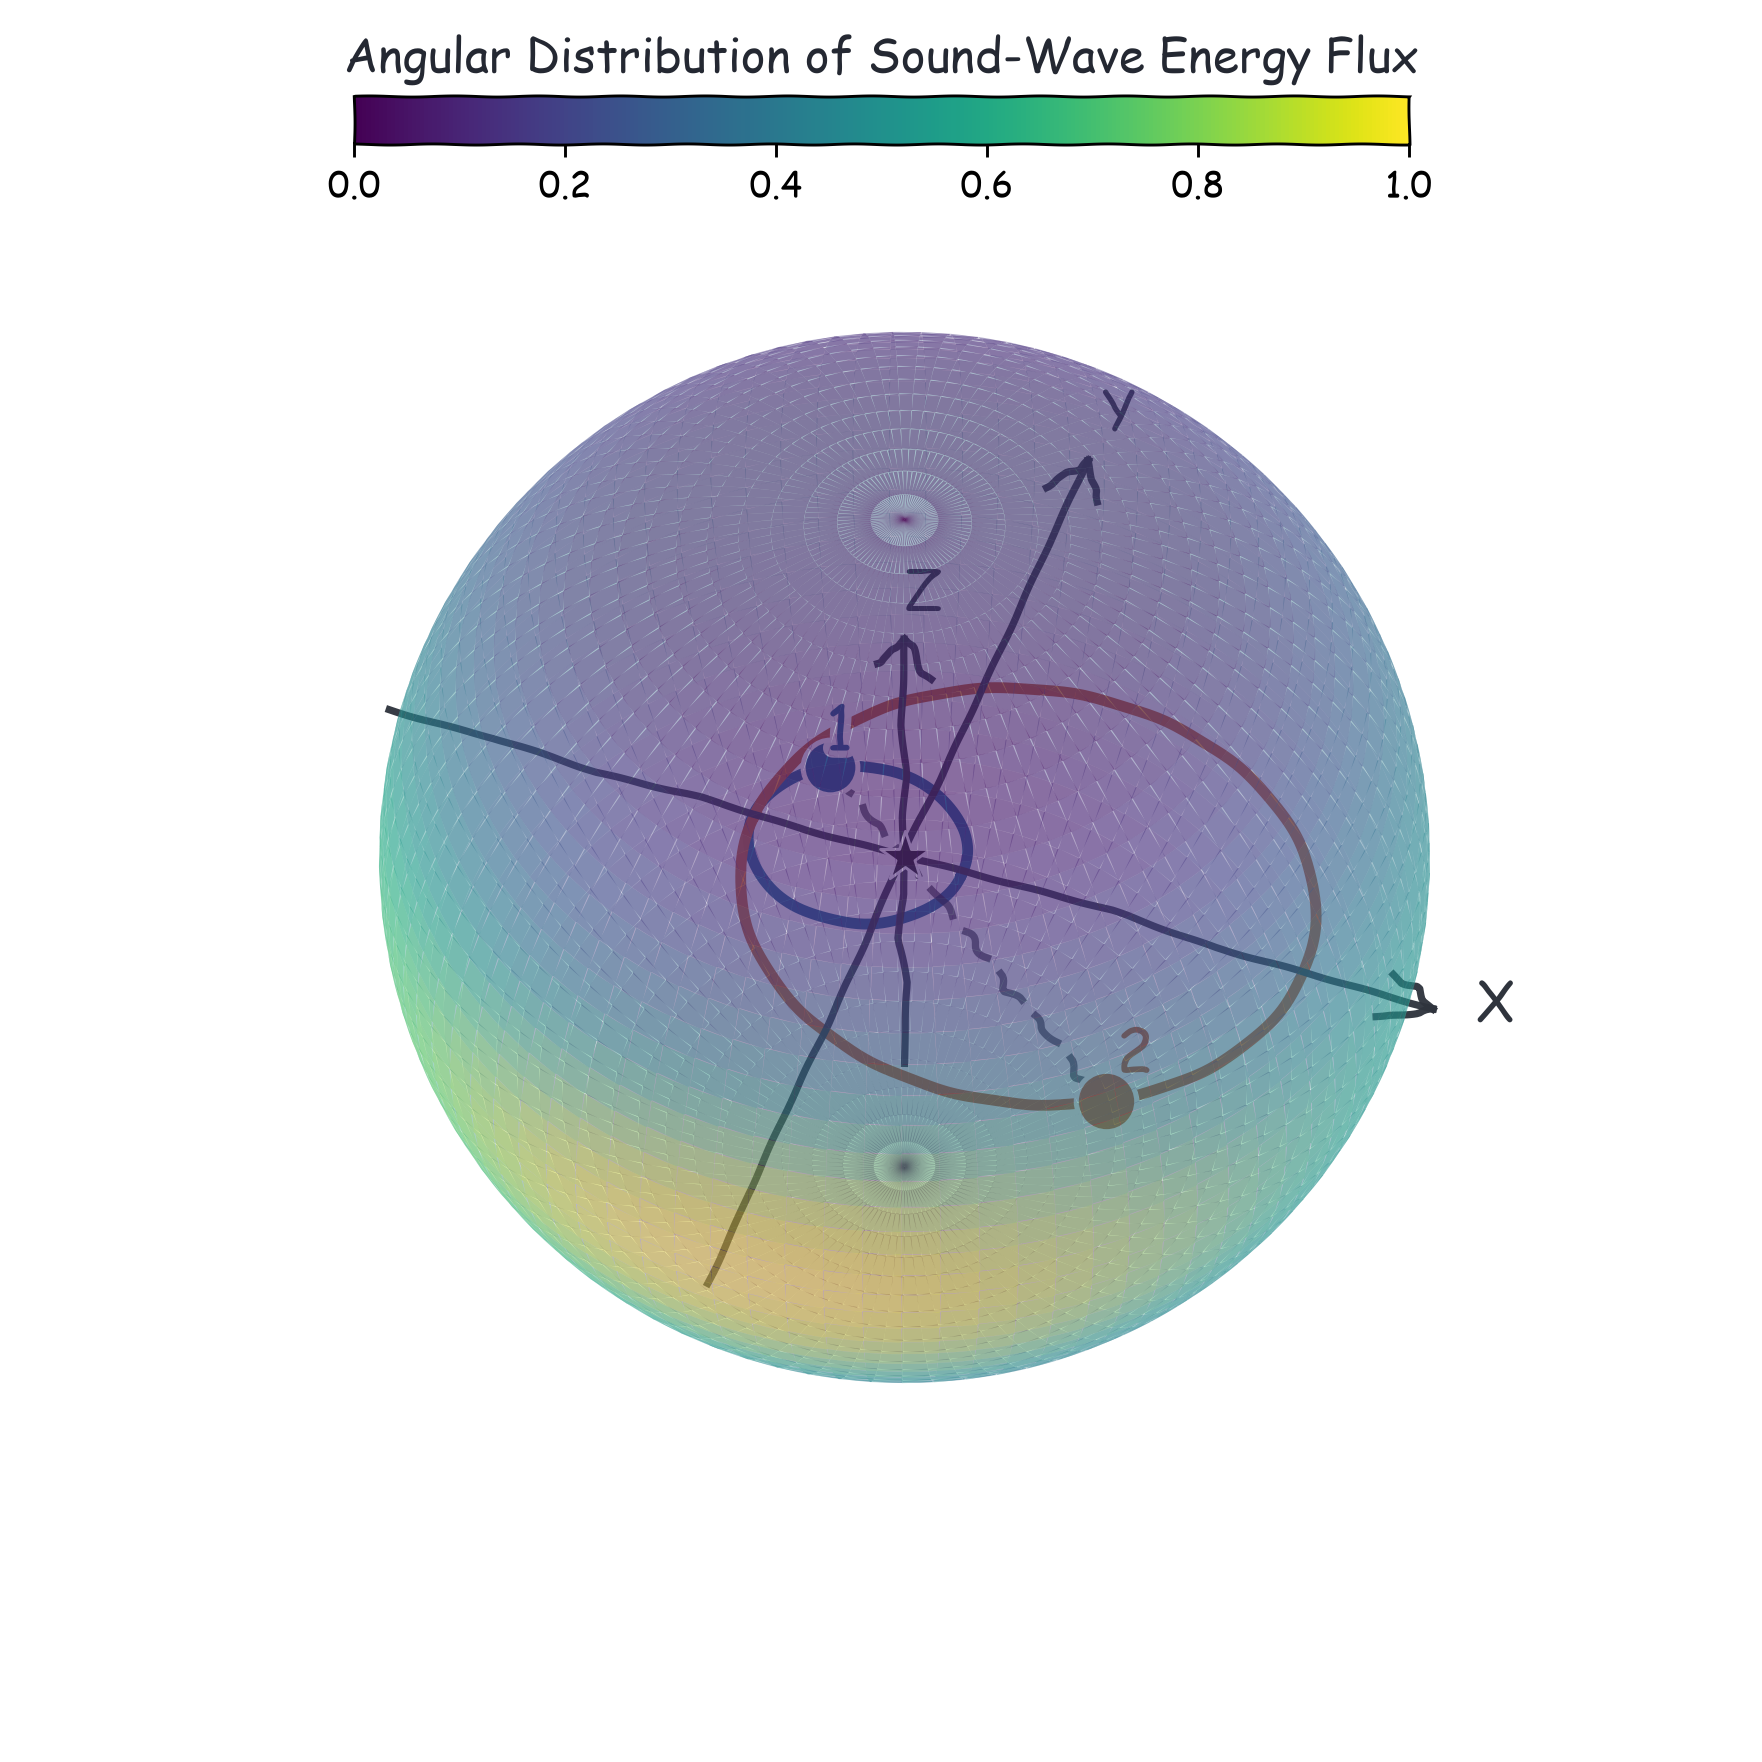
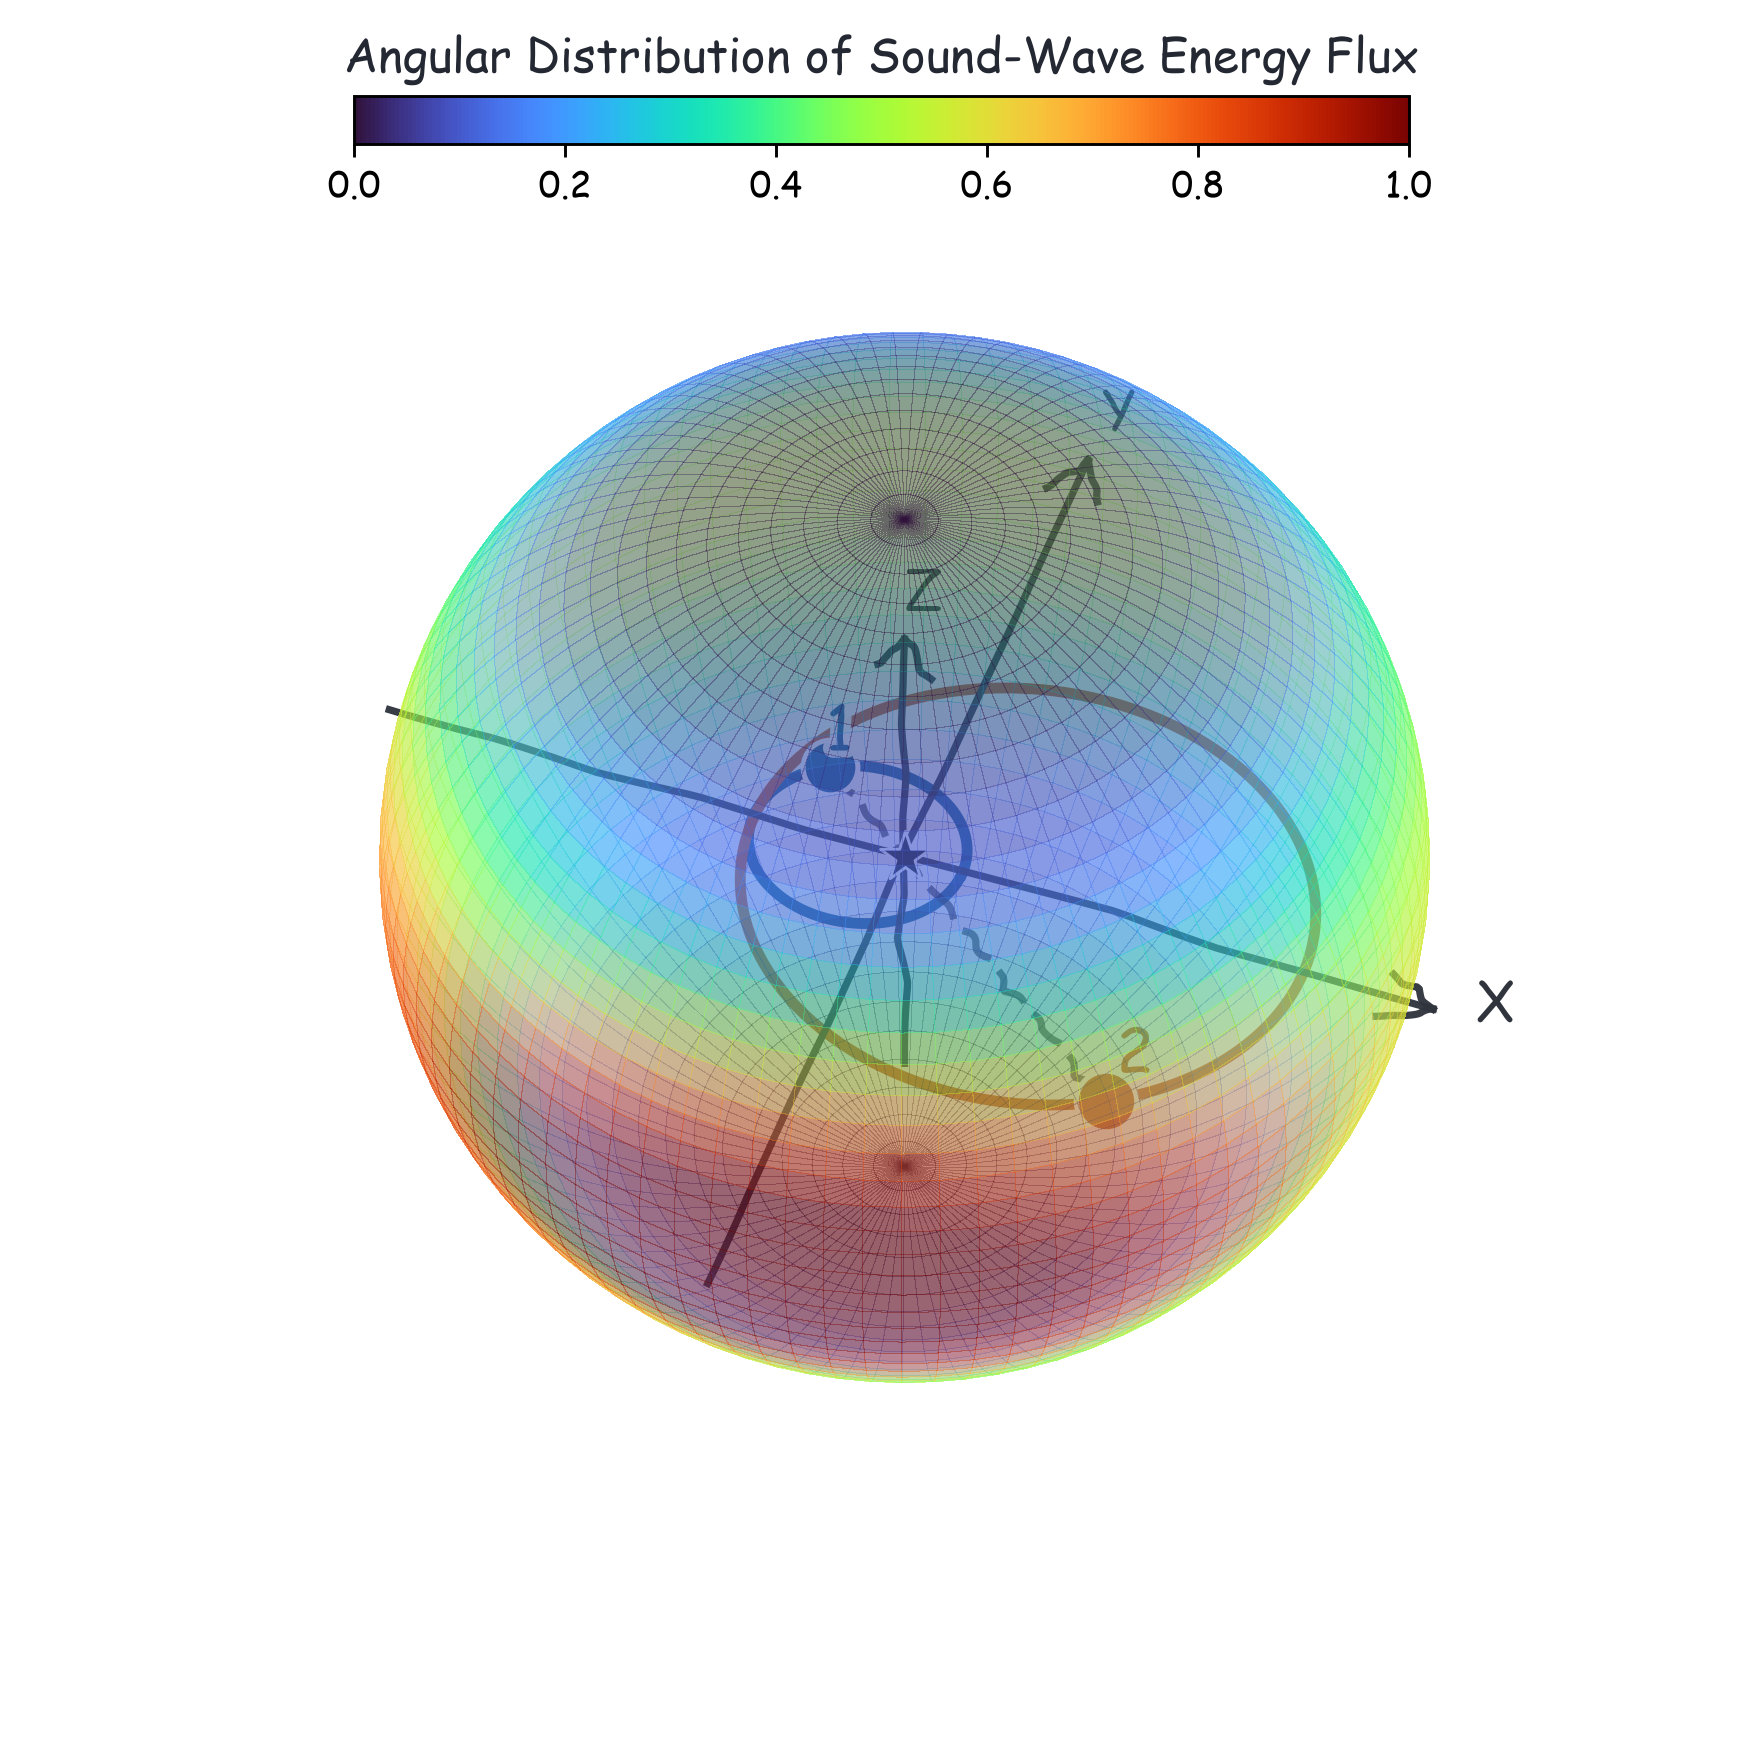
Update README figure caption and colors

Changed region(s): [[0.1873, 0.1873, 0.8116, 0.8116], [0.1873, 0.0312, 0.8116, 0.0936]]

diff --git a/README.md b/README.md
@@ -7,11 +7,12 @@ The code evaluates the harmonic sums with automatic convergence checks and can
 use CUDA acceleration through `numba.cuda` when available.  CPU execution is
 also supported.
 
-![Angular distribution of sound-wave energy flux](docs/assets/binary_cm_orbit_angular_power.png)
-
-Figure: angular distribution of the classical-fluid sound-wave energy flux on
-a sphere enclosing the center-of-mass binary orbit, for
-`nu=0.20`, `e=0.45`, `n0=0`, `A=a*Omega/c_s=0.55`, and `xi=2.15`.
+<p align="center">
+  <img src="docs/assets/binary_cm_orbit_angular_power.png" alt="Angular distribution of sound-wave energy flux" width="760">
+</p>
+<p align="center">
+  <em>(parameters: nu=0.20, e=0.45, n0=0, A=a*Omega/c_s=0.55)</em>
+</p>
 
 ## Contents
 